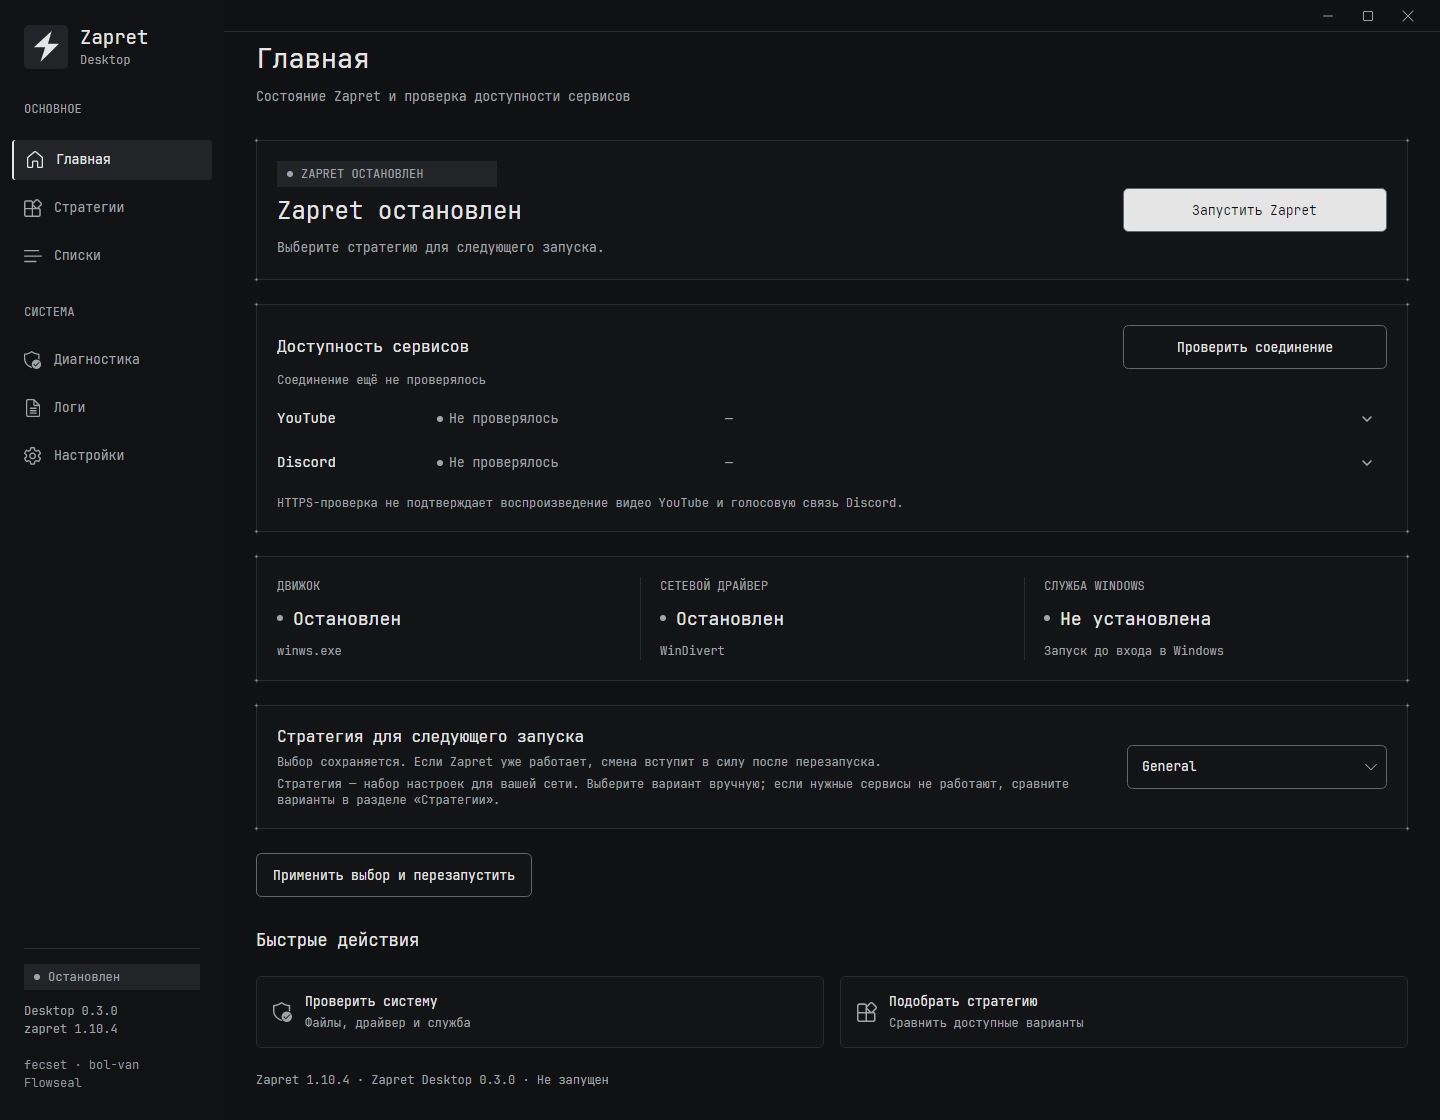
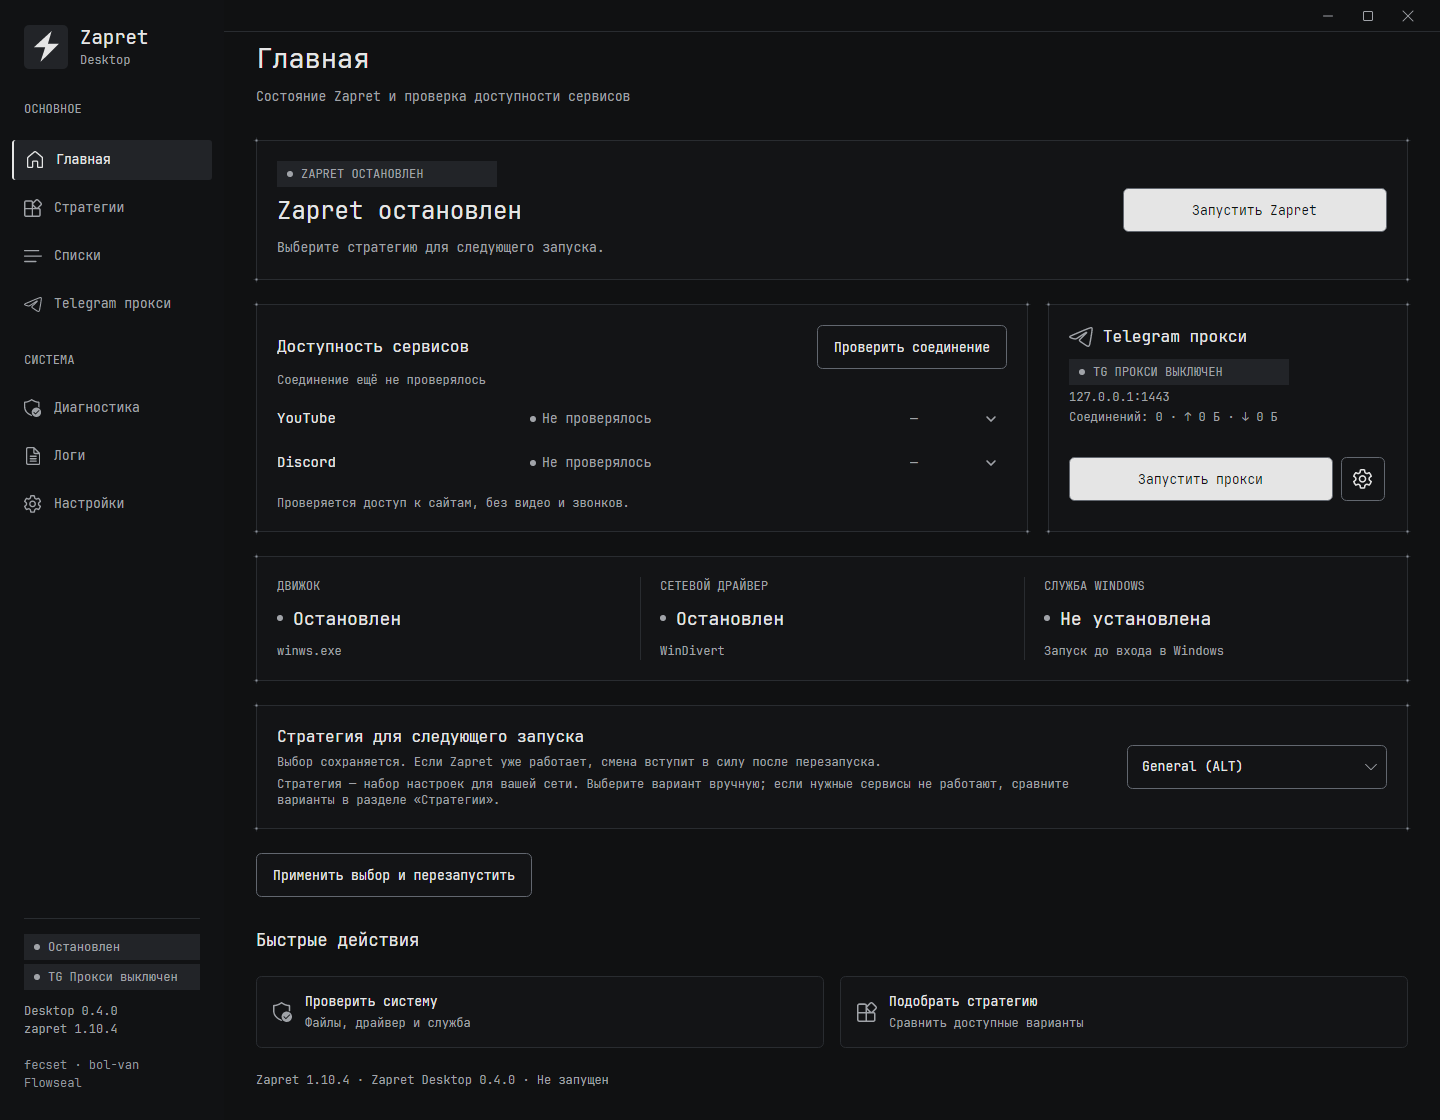
Refresh README screenshot and Telegram proxy docs

diff --git a/tests/Zapret.Desktop.Tests/TelegramProxyTests.cs b/tests/Zapret.Desktop.Tests/TelegramProxyTests.cs
@@ -82,6 +82,34 @@ public sealed class TelegramProxyTests
         finally { window.Hide(); }
     }
     [AvaloniaFact]
+    public async Task HomeScreenshotShowsCurrentVersionAndTelegramCard()
+    {
+        await using var server = new TelegramProxyServer();
+        var proxy = new TelegramProxyViewModel(server, new MemoryStore { Value = new TelegramProxyOptions { Port = 1443, Secret = new string('1', 32) } });
+        using var app = new TestApplication(telegramProxy: proxy, connection: new AvailableHealth());
+        Directory.CreateDirectory(app.Distribution.BinDirectory);
+        foreach (var name in new[] { "winws.exe", "WinDivert.dll", "WinDivert64.sys" })
+            File.WriteAllText(Path.Combine(app.Distribution.BinDirectory, name), "test fixture");
+        File.WriteAllText(Path.Combine(app.Distribution.Root, "service.bat"), "set LOCAL_VERSION=1.10.4");
+        File.WriteAllText(Path.Combine(app.Distribution.ListsDirectory, "list-general.txt"), "example.test");
+        await app.Settings.SaveAsync(new DesktopSettings { Theme = "Dark", CheckUpdates = false, CheckConnectionAfterStart = false }, TestContext.Current.CancellationToken);
+        var window = new MainWindow(app.ViewModel) { Width = 1440, Height = 1120 }; window.Show(); await window.InitializeAsync();
+        try
+        {
+            Dispatcher.UIThread.RunJobs(); window.UpdateLayout();
+            Assert.Contains(window.GetLogicalDescendants().OfType<TextBlock>(), t => t.Text == "Telegram прокси");
+            Assert.Contains(window.GetLogicalDescendants().OfType<TextBlock>(), t => t.Text == "Desktop " + app.ViewModel.DesktopVersion);
+            Assert.Contains(window.GetLogicalDescendants().OfType<TextBlock>(), t => t.Text == "127.0.0.1:1443");
+            var output = Environment.GetEnvironmentVariable("TELEGRAM_PROXY_SCREENSHOTS");
+            if (string.IsNullOrEmpty(output)) return;
+            Directory.CreateDirectory(output);
+            var path = Path.Combine(output, "README-v0.4.0.png");
+            window.CaptureRenderedFrame()?.Save(path, new PngBitmapEncoderOptions());
+            Assert.True(File.Exists(path));
+        }
+        finally { window.Hide(); }
+    }
+    [AvaloniaFact]
     public async Task KeyRotationKeepsActivePortAndPreservesPendingSettings()
     {
         await using var server = new TelegramProxyServer();

diff --git a/README.md b/README.md
@@ -1,6 +1,6 @@
 # ![Значок Zapret Desktop](src/Zapret.Desktop/Assets/app-32.png) Zapret Desktop
 
-**Приложение для управления Zapret на Windows:** запуск, выбор и проверка стратегий, редактирование списков и обновления.
+**Приложение для управления Zapret на Windows:** запуск, выбор и проверка стратегий, редактирование списков, встроенный Telegram-прокси и обновления.
 
 `Windows 10/11 x64` · `v0.4.0`
 
@@ -8,7 +8,7 @@
 
 ## 🖥 Интерфейс
 
-![Главная страница Zapret Desktop](UI.png)
+![Главная страница Zapret Desktop 0.4.0](UI.png)
 
 ## ▶ Установка и запуск
 
@@ -19,6 +19,18 @@
 
 Устанавливать .NET отдельно не требуется. Подходящая стратегия зависит от провайдера: если соединение не работает, попробуйте другую или запустите автоподбор.
 
+## ✈ Telegram прокси
+
+Встроенный MTProto-прокси для Telegram Desktop работает внутри `Zapret.Desktop.exe`; отдельный EXE или Python не нужен.
+
+1. Откройте раздел «Telegram прокси» и нажмите «Запустить прокси».
+2. Нажмите «Открыть в Telegram» и подтвердите добавление прокси.
+3. Если порт 1443 занят, измените его в настройках прокси и сохраните.
+
+Ключ создаётся при первом запуске и хранится с защитой Windows DPAPI. Автозапуск по умолчанию выключен. При сворачивании в трей прокси продолжает работать, при полном выходе Desktop останавливается. Zapret и Telegram прокси управляются независимо.
+
+Подробнее: [подключение, настройки и ограничения](docs/TELEGRAM_PROXY.md).
+
 ## 🗂 Возможности
 
 | Раздел | Возможности |
@@ -26,6 +38,7 @@
 | Главная | Запуск и остановка Zapret, состояние движка, драйвера и службы, проверка YouTube и Discord |
 | Стратегии | Выбор стратегии, автоподбор и история результатов |
 | Списки | Просмотр и редактирование доменов и IP-адресов |
+| Telegram прокси | Встроенный MTProto-прокси для Telegram Desktop: запуск, ключ, порт, маршруты и статистика |
 | Диагностика | Проверка файлов, службы, драйвера, DNS, hosts и возможных конфликтов |
 | Логи | Журнал действий и ошибок |
 | Настройки | Фильтры, служба Windows, автозапуск, тема, резервные копии, IPSet, hosts, payload и обновления |
@@ -76,12 +89,6 @@ dotnet run --project src/Zapret.Desktop/Zapret.Desktop.csproj
 
 ## ⚖ Лицензии
 
-Код Zapret Desktop © [fecset](https://github.com/fecset), [MIT](LICENSE). Уведомления bol-van и Flowseal находятся в [`zapret/LICENSE.txt`](zapret/LICENSE.txt). WinDivert распространяется по LGPLv3 или GPLv2 на выбор — [текст лицензии](licenses/WinDivert-LICENSE.txt). Лицензии остальных компонентов перечислены в [THIRD_PARTY_NOTICES.md](THIRD_PARTY_NOTICES.md).
+Код Zapret Desktop © [fecset](https://github.com/fecset), [MIT](LICENSE). Лицензия и уведомления дистрибутива zapret от bol-van и Flowseal находятся в [`zapret/LICENSE.txt`](zapret/LICENSE.txt). WinDivert распространяется по LGPLv3 или GPLv2 на выбор — [текст лицензии](licenses/WinDivert-LICENSE.txt).
 
-## Telegram прокси
-
-Встроенный локальный MTProto-прокси для Telegram Desktop запускается в разделе «Telegram прокси». Нажмите «Запустить прокси», затем «Открыть в Telegram» и подтвердите добавление. Отдельный EXE или Python не нужны. Автозапуск выключен по умолчанию; при сворачивании в трей прокси продолжает работать, при полном выходе Desktop останавливается. Zapret и Telegram прокси управляются независимо.
-
-Zapret Desktop использует два независимых upstream-проекта Flowseal: [zapret-discord-youtube](https://github.com/Flowseal/zapret-discord-youtube), основанный на [zapret bol-van](https://github.com/bol-van/zapret), и [TG WS Proxy](https://github.com/Flowseal/tg-ws-proxy). Telegram прокси — адаптированная реализация на C# на основе проекта Flowseal, а не оригинальная разработка автора Desktop. Нативный модуль обновляется только вместе с Desktop.
-
-[Подключение, настройки, ограничения и проверки](docs/TELEGRAM_PROXY.md).
+Telegram прокси — адаптированная C#-реализация [TG WS Proxy](https://github.com/Flowseal/tg-ws-proxy) © Flowseal, [MIT](licenses/TG-WS-Proxy-LICENSE.txt). Лицензии остальных компонентов и условия использования логотипа Telegram перечислены в [THIRD_PARTY_NOTICES.md](THIRD_PARTY_NOTICES.md).
